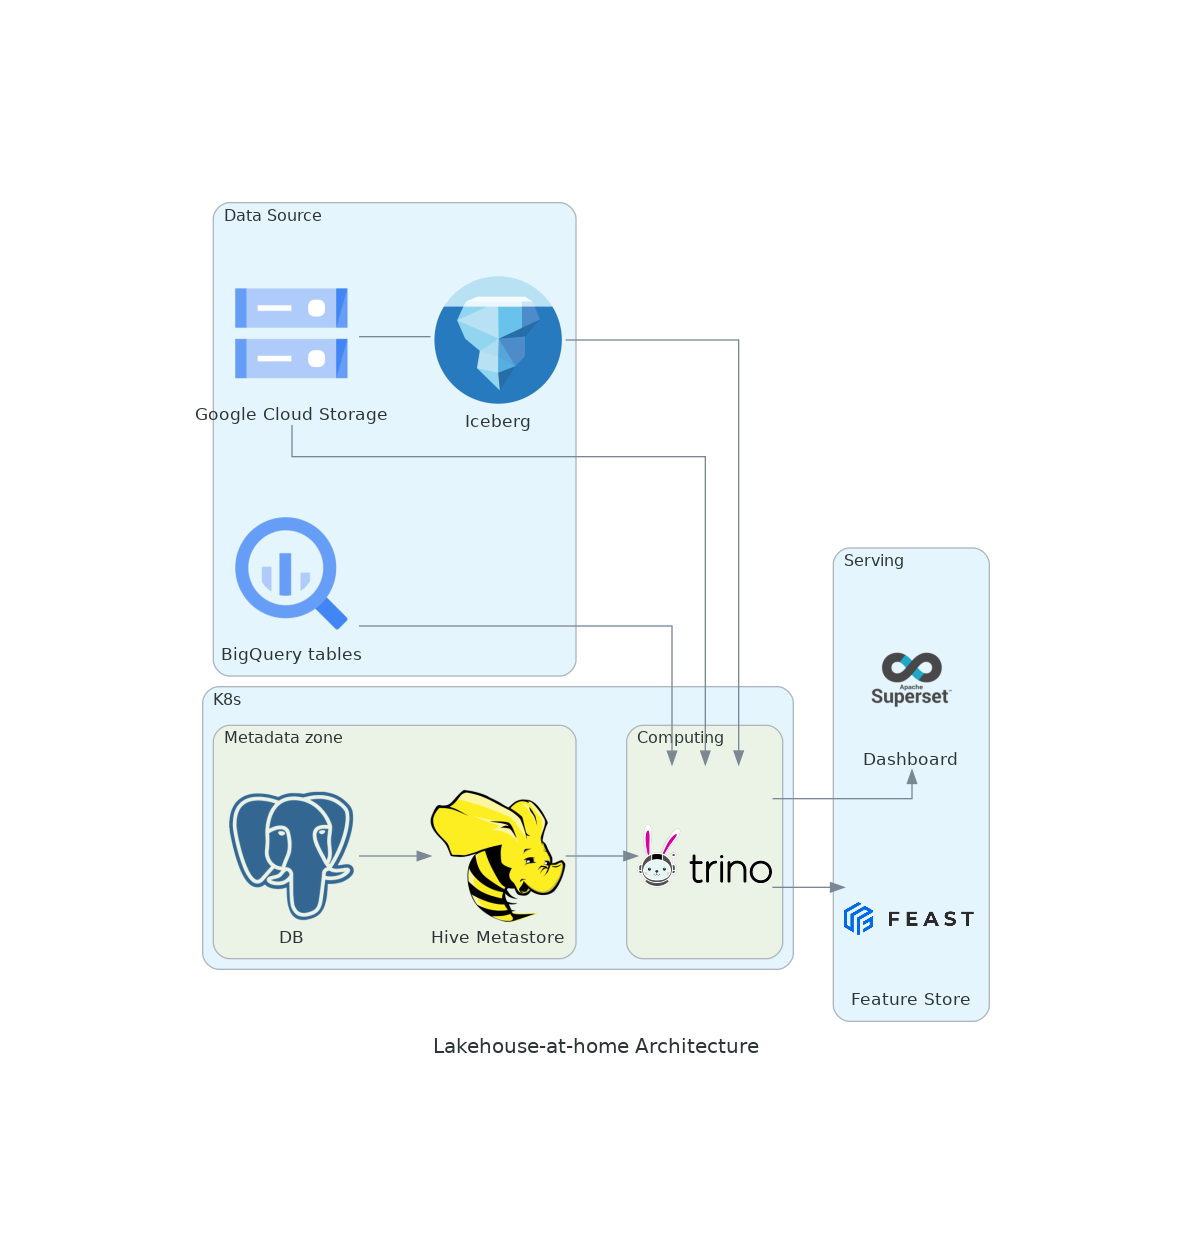
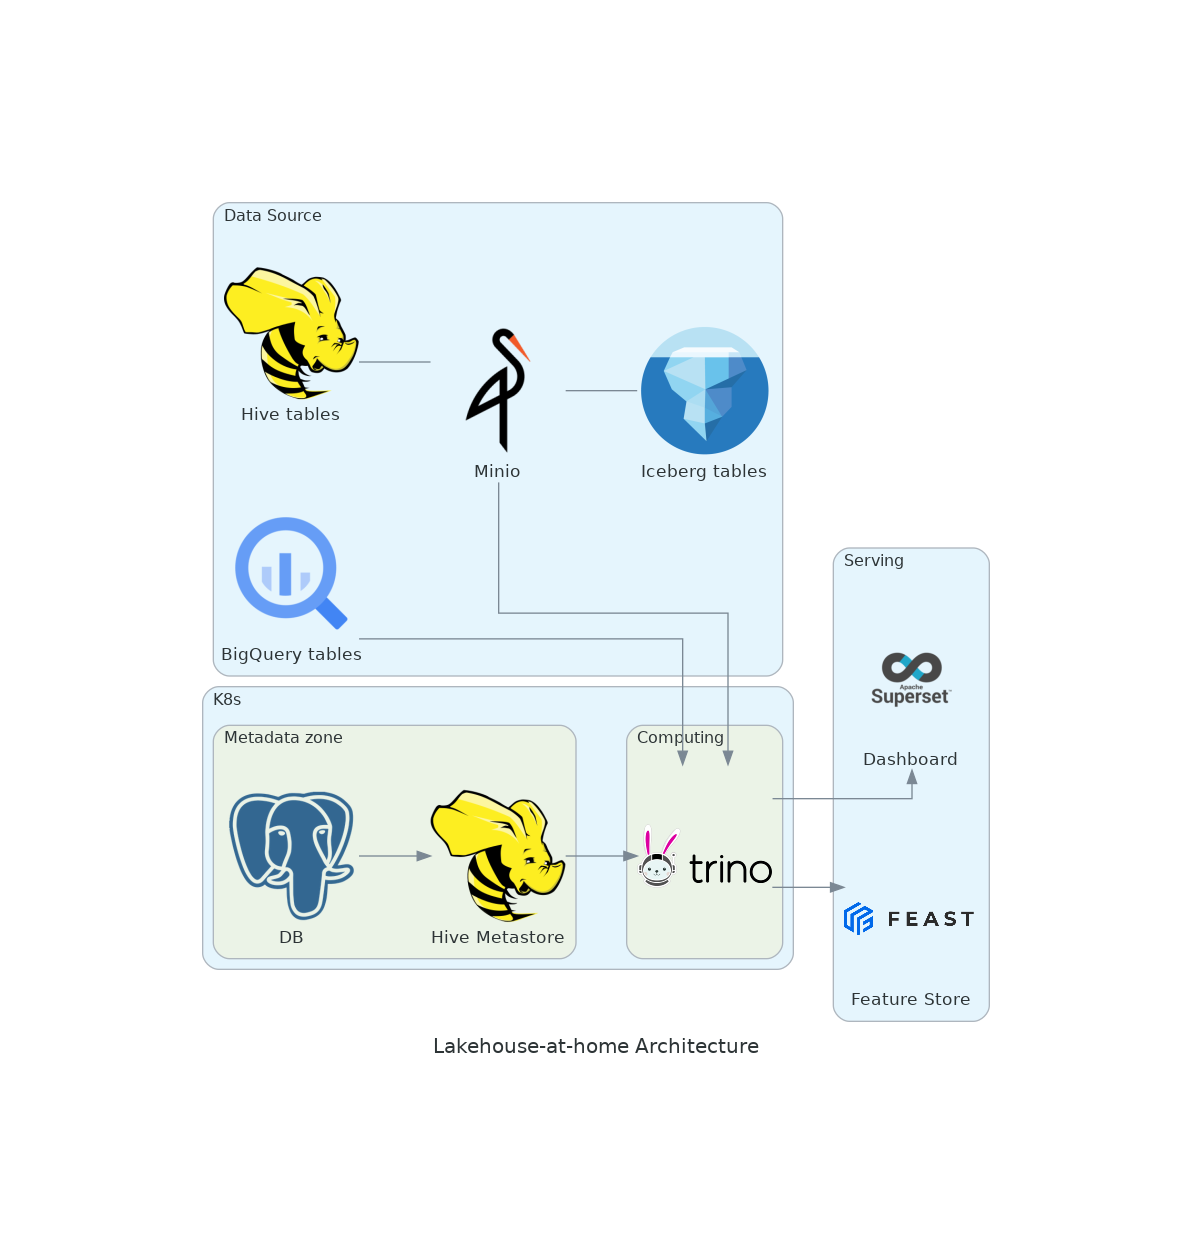
feat: update diagram

Changed region(s): [[0.3104, 0.1551, 0.6829, 0.6205], [0.1862, 0.2172, 0.3104, 0.3413]]

diff --git a/diagram_as_code.py b/diagram_as_code.py
@@ -1,7 +1,6 @@
 from diagrams import Cluster, Diagram
 from diagrams.custom import Custom
 from diagrams.gcp.analytics import Bigquery
-from diagrams.gcp.storage import GCS
 from diagrams.onprem.analytics import Hive, Superset
 from diagrams.onprem.database import PostgreSQL
 
@@ -13,23 +12,25 @@ with Diagram(
     direction="LR",
 ):
     with Cluster("Data Source"):
-        gcs = GCS("Google Cloud Storage")
-        iceberg = Custom("Iceberg", "../assets/iceberg.png")
+        minio = Custom("Minio", "../assets/minio.png")
         bq = Bigquery("BigQuery tables")
-        gcs - iceberg
+        iceberg = Custom("Iceberg tables", "../assets/iceberg.png")
+        hive = Hive("Hive tables")
+        hive - minio - iceberg
 
     with Cluster("K8s"):
         with Cluster("Metadata zone"):
-            hive = Hive("Hive Metastore")
+            hive_metastore = Hive("Hive Metastore")
             psql = PostgreSQL("DB")
 
         with Cluster("Computing"):
             trino = Custom("", "../assets/trino.png")
 
-        psql >> hive
-        [iceberg, hive, bq, gcs] >> trino
+        psql >> hive_metastore
+        minio >> trino
+        [hive_metastore, bq] >> trino
 
     with Cluster("Serving"):
         dashboard = Superset("Dashboard")
-        feast = Custom("Feature Store", "../assets/feast.png")
-        trino >> [dashboard, feast]
+        feature_store = Custom("Feature Store", "../assets/feast.png")
+        trino >> [dashboard, feature_store]
